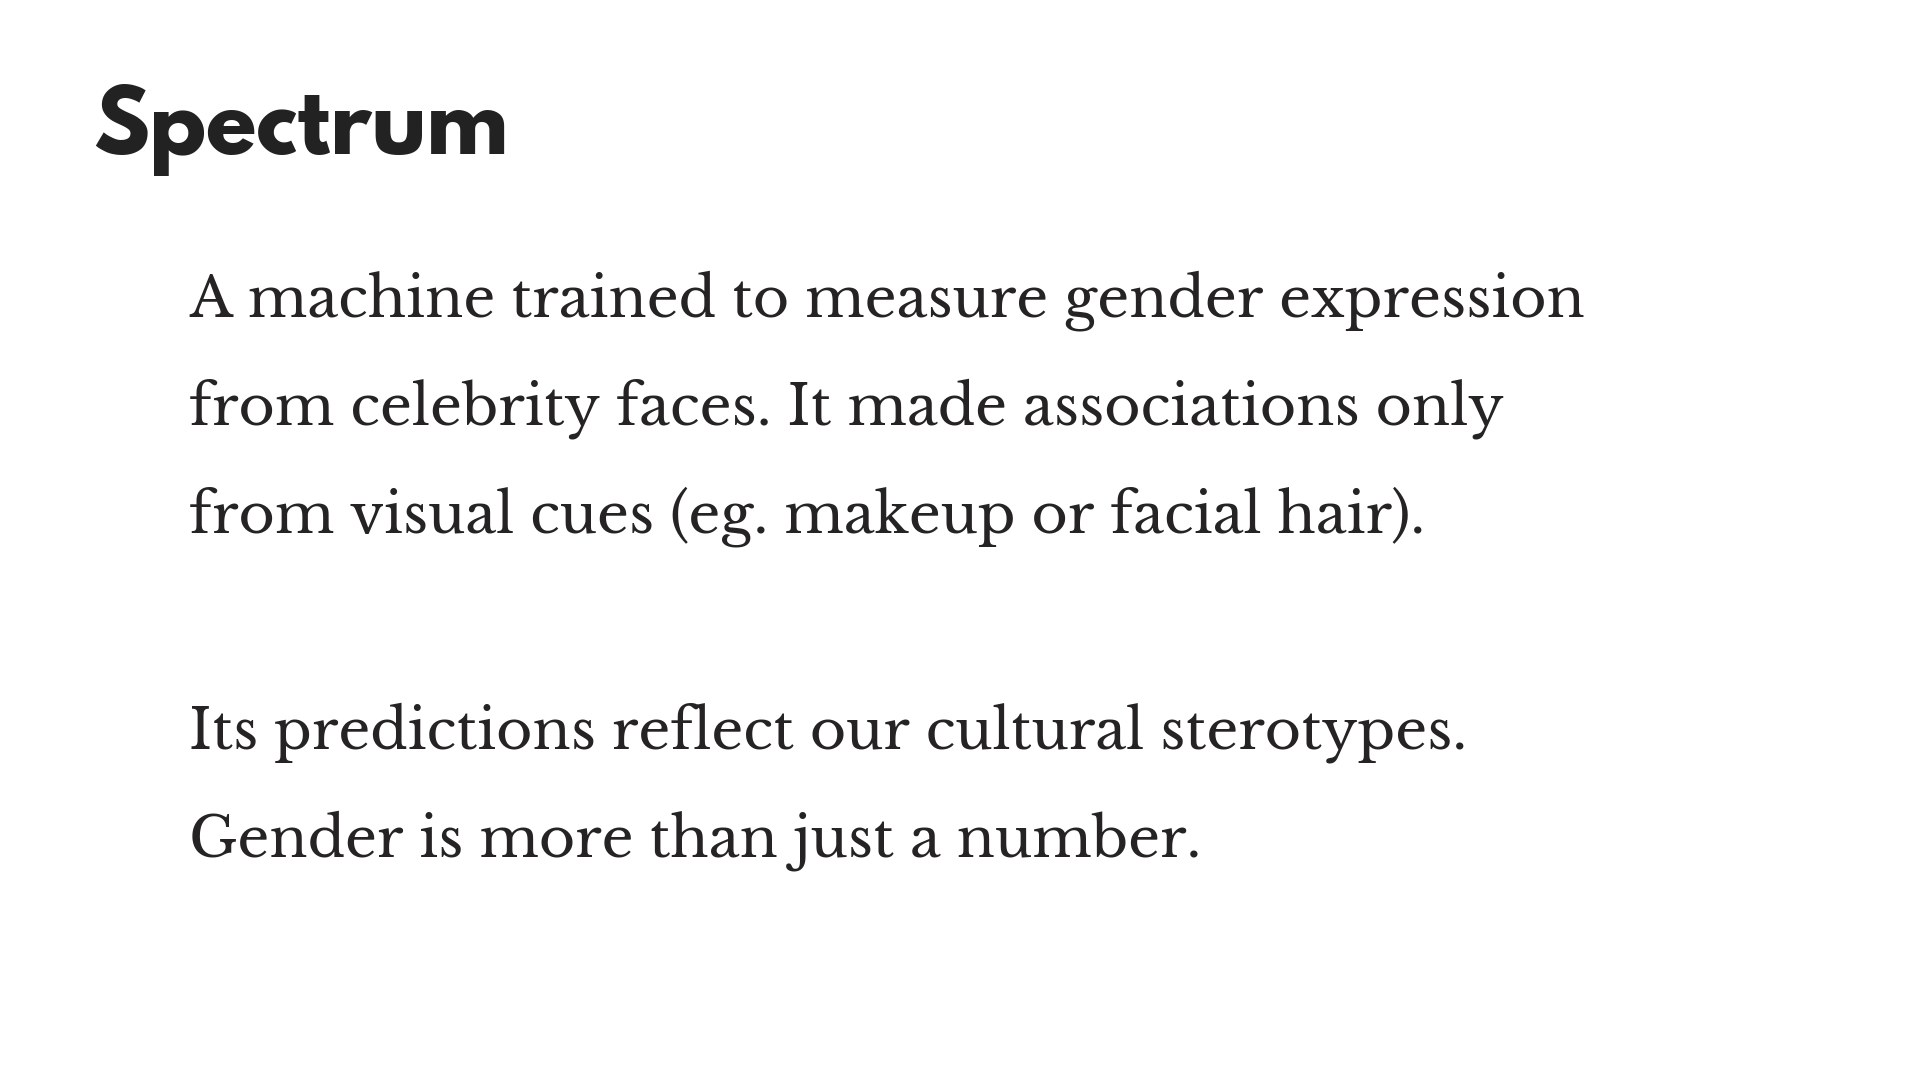
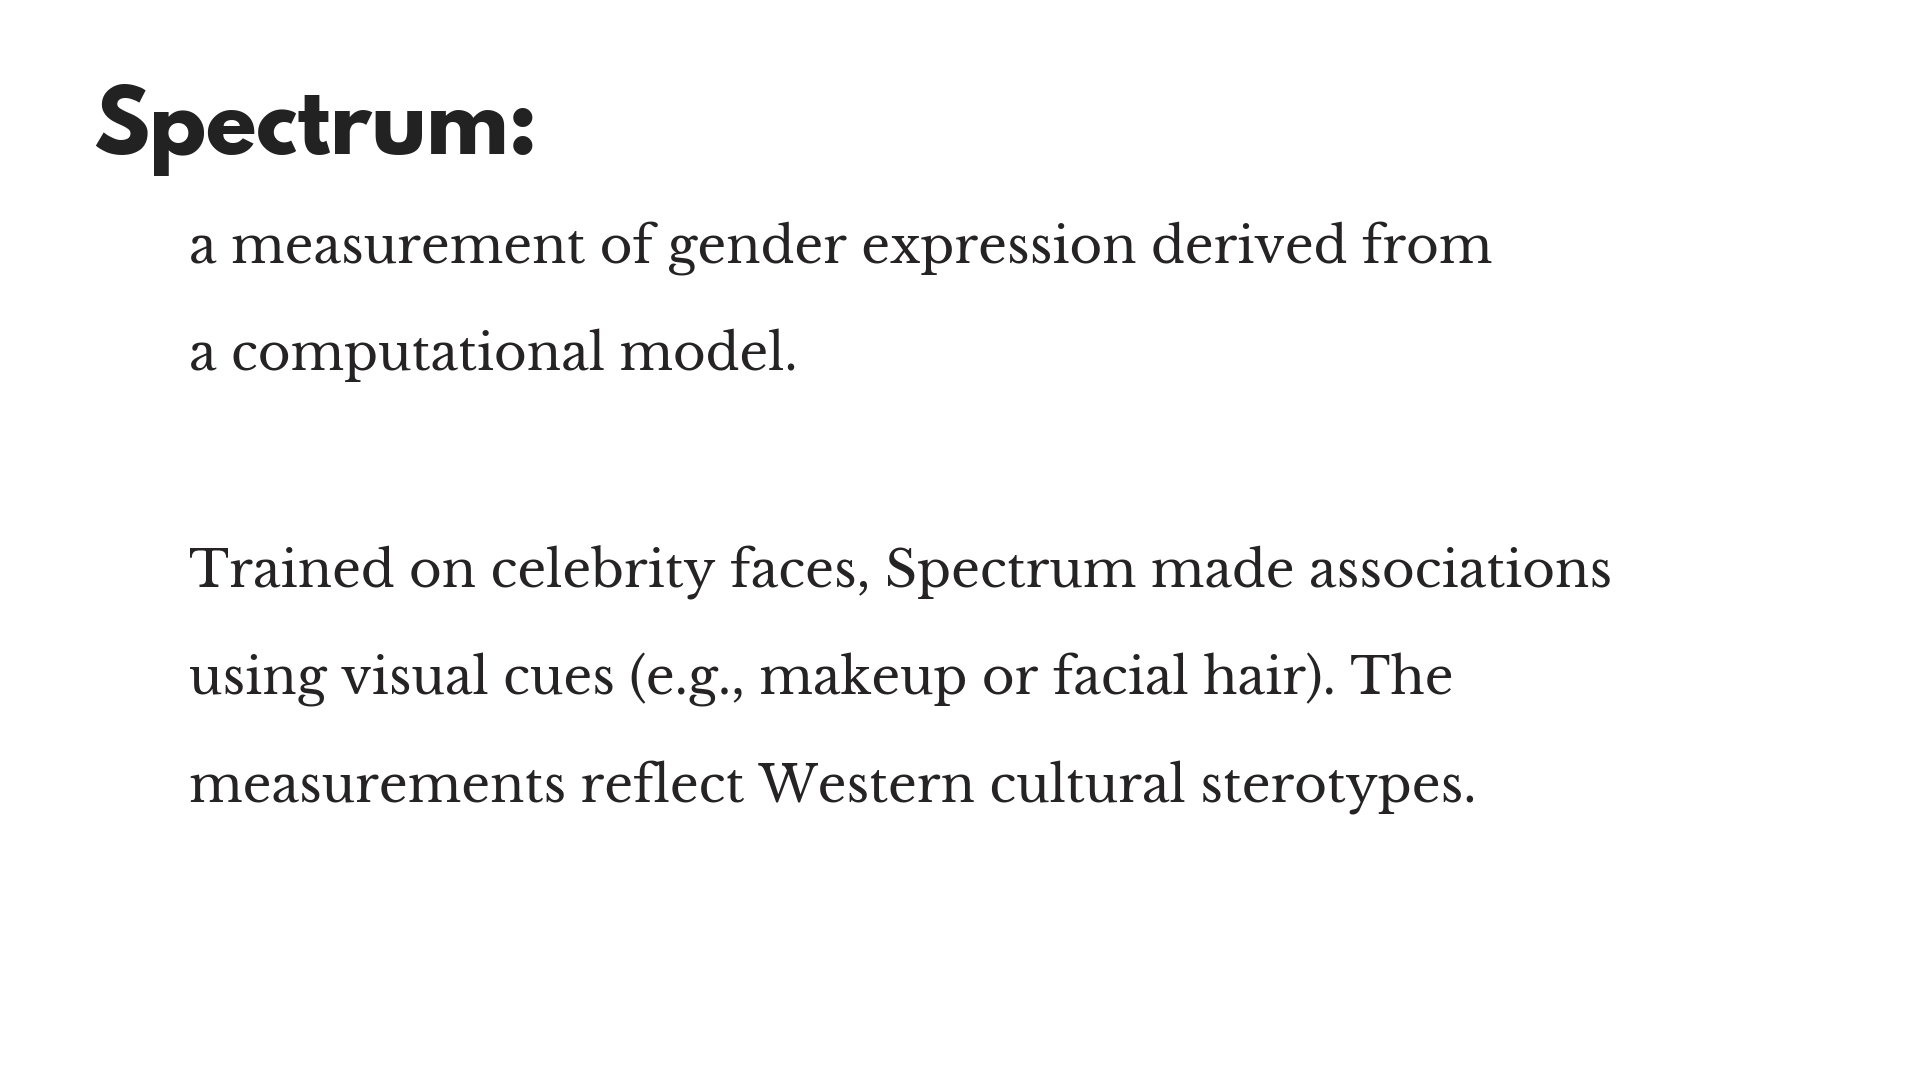
Change introduction text

diff --git a/render_animations.py b/render_animations.py
@@ -50,6 +50,7 @@ x_width /= scale
 y_height /= scale
 
 f_intro_png = "src/introduction_slide.png"
+f_intro_png2 = "src/introduction_slide2.png"
 
 
 def read_image(f_png):
@@ -74,25 +75,43 @@ def build_intro_slide():
     args = {"color":pal[-1], "fontproperties":prop}
     dx = -.10
 
-    g.text(text_x, text_y, "Spectrum", fontsize=30, **args)
+    g.text(text_x, text_y, "Spectrum:", fontsize=30, **args)
 
-    args["fontproperties"] = fm.FontProperties(fname="src/LibreBaskerville-Regular.ttf")
+    args["fontproperties"] = fm.FontProperties(
+        fname="src/LibreBaskerville-Regular.ttf")
     args["color"] = pal[-3]
 
+
     lines = [
-        "A machine trained to measure gender expression",
-        "from celebrity faces. It made associations only",
-        "from visual cues (eg. makeup or facial hair).",
+        "a measurement of gender expression derived from ",
+        "a computational model.",
         "",
-        "Its predictions reflect our cultural sterotypes.",
-        "Gender is more than just a number."
+        "Trained on celebrity faces, Spectrum made associations",
+        "using visual cues (e.g., makeup or facial hair). The ",
+        "measurements reflect Western cultural sterotypes.",
     ]
     
-    for k,line in enumerate(lines):   
-        g.text(text_x-dx/2, text_y+(k+1)*dx+dx/2, line, fontsize=20, **args)
+    for k,line in enumerate(lines):
+        g.text(text_x-dx/2, text_y+(k+0.5)*dx+dx/2, line, fontsize=18, **args)
 
     plt.savefig(f_intro_png, dpi=200)
-    exit()
+
+    ### Render intro screen #2
+        
+    fig, axes = plt.subplots(
+        1, 1, figsize=(x_width / 100., y_height / 100.),
+    )
+    axes.axis('off')
+    g = plt.gcf()
+
+    lines = [
+        "Gender is more complex than ",
+        "how you express yourself."
+    ]
+    for k,line in enumerate(lines):
+        g.text(text_x-dx/2, text_y+(k+2.5)*dx+dx/2, line, fontsize=22, **args)
+    plt.savefig(f_intro_png2, dpi=200)
+
 
 def animate(name):
     print("Starting", name)
